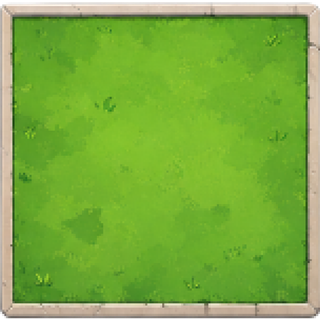
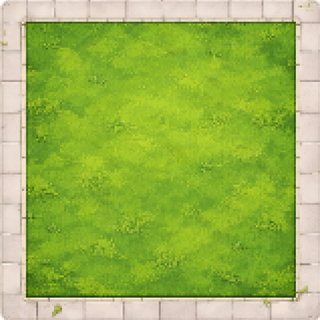
Align block_01 textures

diff --git a/public/client.js b/public/client.js
@@ -128,6 +128,7 @@ const BUILDING_TEXTURE_SOURCES = [
   ...ARMORY_BUILDING_TEXTURE_SOURCES,
   HOSPITAL_BUILDING_TEXTURE_SOURCE,
 ];
+const BLOCK_TEXTURE_SOURCES = ['/assets/buildings/block_01.png'];
 const BASE_BUILDING_VARIANT_COUNT = BASE_BUILDING_TEXTURE_SOURCES.length;
 const ARMORY_VARIANT_START = BASE_BUILDING_VARIANT_COUNT;
 const HOSPITAL_VARIANT_INDEX = ARMORY_VARIANT_START + ARMORY_BUILDING_TEXTURE_SOURCES.length;
@@ -138,7 +139,15 @@ const buildingTextures = BUILDING_TEXTURE_SOURCES.map((src) => ({
   height: 0,
   image: null,
 }));
+const blockTextures = BLOCK_TEXTURE_SOURCES.map((src) => ({
+  src,
+  state: 'idle',
+  width: 0,
+  height: 0,
+  image: null,
+}));
 let buildingTexturesRequested = false;
+let blockTexturesRequested = false;
 
 function parseAudioPref(value, fallback) {
   const n = Number(value);
@@ -620,6 +629,43 @@ function ensureBuildingTexturesLoaded() {
   }
 }
 
+function loadBlockTexture(index) {
+  const target = blockTextures[index];
+  if (!target || target.state === 'loading' || target.state === 'ready') return;
+  target.state = 'loading';
+
+  const img = new Image();
+  img.decoding = 'async';
+  img.onload = () => {
+    try {
+      const buffer = document.createElement('canvas');
+      buffer.width = img.width;
+      buffer.height = img.height;
+      const g = buffer.getContext('2d');
+      g.imageSmoothingEnabled = false;
+      g.drawImage(img, 0, 0);
+      target.width = img.width;
+      target.height = img.height;
+      target.image = buffer;
+      target.state = 'ready';
+    } catch {
+      target.state = 'missing';
+    }
+  };
+  img.onerror = () => {
+    target.state = 'missing';
+  };
+  img.src = target.src;
+}
+
+function ensureBlockTexturesLoaded() {
+  if (blockTexturesRequested) return;
+  blockTexturesRequested = true;
+  for (let i = 0; i < blockTextures.length; i += 1) {
+    loadBlockTexture(i);
+  }
+}
+
 function refreshMapToggleUi() {
   if (!mapBtn) return;
   mapBtn.classList.toggle('active', mapVisible);
@@ -680,8 +726,7 @@ function worldGroundTypeAt(x, y) {
 
   const blockX = Math.floor(x / WORLD.blockPx);
   const blockY = Math.floor(y / WORLD.blockPx);
-  const profile = hash2D(blockX, blockY);
-  if (profile < 0.2) {
+  if (!blockHasBuildings(blockX, blockY)) {
     return 'park';
   }
 
@@ -698,10 +743,19 @@ function worldGroundTypeAt(x, y) {
   return 'park';
 }
 
+function blockHasBuildings(blockX, blockY) {
+  return hash2D(blockX, blockY) >= 0.2;
+}
+
 function buildingVariantForPlot(blockX, blockY, plotIndex) {
   return Math.floor(
     hash2D(blockX * 31 + 17 + plotIndex * 7, blockY * 43 - 29 + plotIndex * 11) * BASE_BUILDING_VARIANT_COUNT
   );
+}
+
+function blockVariantForBlock(blockX, blockY) {
+  if (!blockTextures.length) return 0;
+  return Math.floor(hash2D(blockX * 53 + 11, blockY * 67 - 19) * blockTextures.length);
 }
 
 function plotIndexForLocalCoord(localX, localY) {
@@ -921,16 +975,64 @@ function drawCommonRoofMicroDetails(variant, sx, sy, tile, blockX, blockY, btX, 
   }
 }
 
-function drawBuildingTextureTile(variant, plot, sx, sy, tile, localX, localY) {
+function drawBlockTextureTile(blockVariant, sx, sy, tile, localX, localY) {
+  const texture = blockTextures[blockVariant];
+  if (!texture || texture.state !== 'ready' || !texture.image || texture.width < 2 || texture.height < 2) {
+    return false;
+  }
+
+  const leftSpan = WORLD.roadStart;
+  const rightSpan = WORLD.blockPx - WORLD.roadEnd;
+  if (leftSpan <= 0 || rightSpan <= 0) return false;
+
+  const toLotNorm = (v) => {
+    if (v < WORLD.roadStart) return v / leftSpan;
+    if (v >= WORLD.roadEnd) return (v - WORLD.roadEnd) / rightSpan;
+    return null;
+  };
+
+  const endX = Math.min(WORLD.blockPx - 0.001, localX + tile - 0.001);
+  const endY = Math.min(WORLD.blockPx - 0.001, localY + tile - 0.001);
+  const u0 = toLotNorm(localX);
+  const v0 = toLotNorm(localY);
+  const u1 = toLotNorm(endX);
+  const v1 = toLotNorm(endY);
+  if (u0 === null || v0 === null || u1 === null || v1 === null) {
+    return false;
+  }
+
+  // Transparent pixels in block textures should reveal ground.
+  ctx.fillStyle = '#345a38';
+  ctx.fillRect(sx, sy, tile, tile);
+
+  const cu0 = clamp(u0, 0, 1);
+  const cv0 = clamp(v0, 0, 1);
+  const cu1 = clamp(u1, 0, 1);
+  const cv1 = clamp(v1, 0, 1);
+
+  const srcX = clamp(Math.floor(cu0 * (texture.width - 1)), 0, texture.width - 1);
+  const srcY = clamp(Math.floor(cv0 * (texture.height - 1)), 0, texture.height - 1);
+  const srcX2 = clamp(Math.ceil(cu1 * (texture.width - 1)), srcX + 1, texture.width);
+  const srcY2 = clamp(Math.ceil(cv1 * (texture.height - 1)), srcY + 1, texture.height);
+  const srcW = Math.max(1, srcX2 - srcX);
+  const srcH = Math.max(1, srcY2 - srcY);
+
+  ctx.drawImage(texture.image, srcX, srcY, srcW, srcH, sx, sy, tile, tile);
+  return true;
+}
+
+function drawBuildingTextureTile(variant, plot, sx, sy, tile, localX, localY, hasUnderlay = false) {
   const texture = buildingTextures[variant];
   if (!texture || texture.state !== 'ready' || !texture.image || texture.width < 2 || texture.height < 2) {
     return false;
   }
   if (!plot) return false;
 
-  // Transparent pixels in source textures should reveal lot ground, not the frame-clear color.
-  ctx.fillStyle = '#345a38';
-  ctx.fillRect(sx, sy, tile, tile);
+  // Transparent pixels in source textures should reveal underlying lot ground.
+  if (!hasUnderlay) {
+    ctx.fillStyle = '#345a38';
+    ctx.fillRect(sx, sy, tile, tile);
+  }
 
   const spanX = Math.max(1, plot.x1 - plot.x0);
   const spanY = Math.max(1, plot.y1 - plot.y0);
@@ -1570,7 +1672,18 @@ function drawTile(type, sx, sy, tile, worldX, worldY, specialPlotVariants) {
     return;
   }
 
+  const blockWorldX = Math.floor(worldX / WORLD.blockPx);
+  const blockWorldY = Math.floor(worldY / WORLD.blockPx);
+  const localX = mod(worldX, WORLD.blockPx);
+  const localY = mod(worldY, WORLD.blockPx);
+  const blockVariant = blockVariantForBlock(blockWorldX, blockWorldY);
+  const hasBlockUnderlay = drawBlockTextureTile(blockVariant, sx, sy, tile, localX, localY);
+
   if (type === 'sidewalk') {
+    if (hasBlockUnderlay) {
+      return;
+    }
+
     ctx.fillStyle = '#70777f';
     ctx.fillRect(sx, sy, tile, tile);
 
@@ -1582,10 +1695,6 @@ function drawTile(type, sx, sy, tile, worldX, worldY, specialPlotVariants) {
   }
 
   if (type === 'building') {
-    const blockWorldX = Math.floor(worldX / WORLD.blockPx);
-    const blockWorldY = Math.floor(worldY / WORLD.blockPx);
-    const localX = mod(worldX, WORLD.blockPx);
-    const localY = mod(worldY, WORLD.blockPx);
     const margin = 42 + Math.floor(hash2D(blockWorldX + 11, blockWorldY - 7) * 12);
     const plot = getBuildingPlotInfo(localX, localY, margin);
     const plotKey = plot ? `${blockWorldX},${blockWorldY},${plot.plotIndex}` : null;
@@ -1593,7 +1702,7 @@ function drawTile(type, sx, sy, tile, worldX, worldY, specialPlotVariants) {
     const variant = Number.isInteger(specialVariant)
       ? specialVariant
       : buildingVariantForPlot(blockWorldX, blockWorldY, plot ? plot.plotIndex : 0);
-    if (drawBuildingTextureTile(variant, plot, sx, sy, tile, localX, localY)) {
+    if (drawBuildingTextureTile(variant, plot, sx, sy, tile, localX, localY, hasBlockUnderlay)) {
       return;
     }
 
@@ -1626,6 +1735,12 @@ function drawTile(type, sx, sy, tile, worldX, worldY, specialPlotVariants) {
     return;
   }
 
+  if (type === 'park') {
+    if (hasBlockUnderlay) {
+      return;
+    }
+  }
+
   ctx.fillStyle = '#345a38';
   ctx.fillRect(sx, sy, tile, tile);
   if (hash2D(Math.floor(worldX / tile), Math.floor(worldY / tile)) > 0.65) {
@@ -1636,6 +1751,7 @@ function drawTile(type, sx, sy, tile, worldX, worldY, specialPlotVariants) {
 
 function drawWorld(state) {
   ensureBuildingTexturesLoaded();
+  ensureBlockTexturesLoaded();
   const specialPlotVariants = buildSpecialPlotVariantMap(state?.world);
   const viewW = canvas.width;
   const viewH = canvas.height;
@@ -2983,6 +3099,7 @@ function attachUiEvents() {
 function boot() {
   applyAudioSettings();
   ensureBuildingTexturesLoaded();
+  ensureBlockTexturesLoaded();
   refreshMapToggleUi();
   refreshSettingsPanel();
   populateColorGrid();
